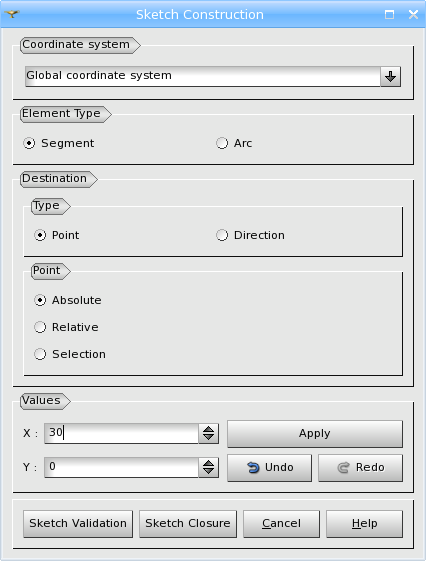
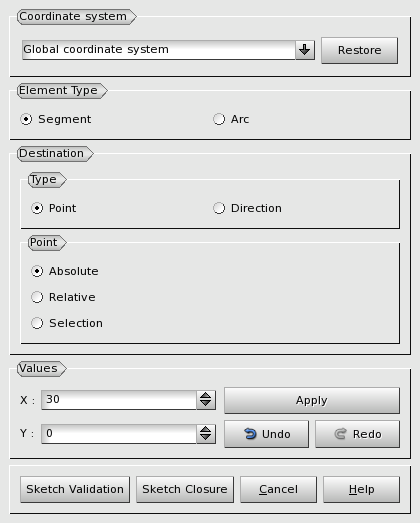
0020882: EDF 1341 GEOM: Unadapted behaviour of the viewer when using the sketcher

Changed region(s): [[0.0, 0.0, 1.0, 1.0]]

diff --git a/src/GEOMGUI/GEOM_msg_en.ts b/src/GEOMGUI/GEOM_msg_en.ts
@@ -1555,6 +1555,10 @@ Please, select face, shell or solid and try again</translation>
             <source>GEOM_SKETCHER_EL</source>
             <translation>Element Type</translation>
         </message>
+	<message>
+            <source>GEOM_SKETCHER_RESTORE</source>
+            <translation>Restore</translation>
+        </message>
         <message>
             <source>GEOM_SKETCHER_LENGTH</source>
             <translation>Length</translation>

diff --git a/src/EntityGUI/EntityGUI_SketcherDlg.h b/src/EntityGUI/EntityGUI_SketcherDlg.h
@@ -145,6 +145,7 @@ private:
 
   QGroupBox*                         GroupBox1;
   QComboBox*                         ComboBox1;
+  QPushButton*                       planeButton;
 
   GeometryGUI*                       myGeometryGUI;
 
@@ -184,6 +185,7 @@ private slots:
   void                               SetDoubleSpinBoxStep( double );
   void                               FindLocalCS();
   gp_Ax3                             GetActiveLocalCS();
+  void                               ActivateLocalCS();
 };
 
 #endif // ENTITYGUI_SKETCHERDLG_H
